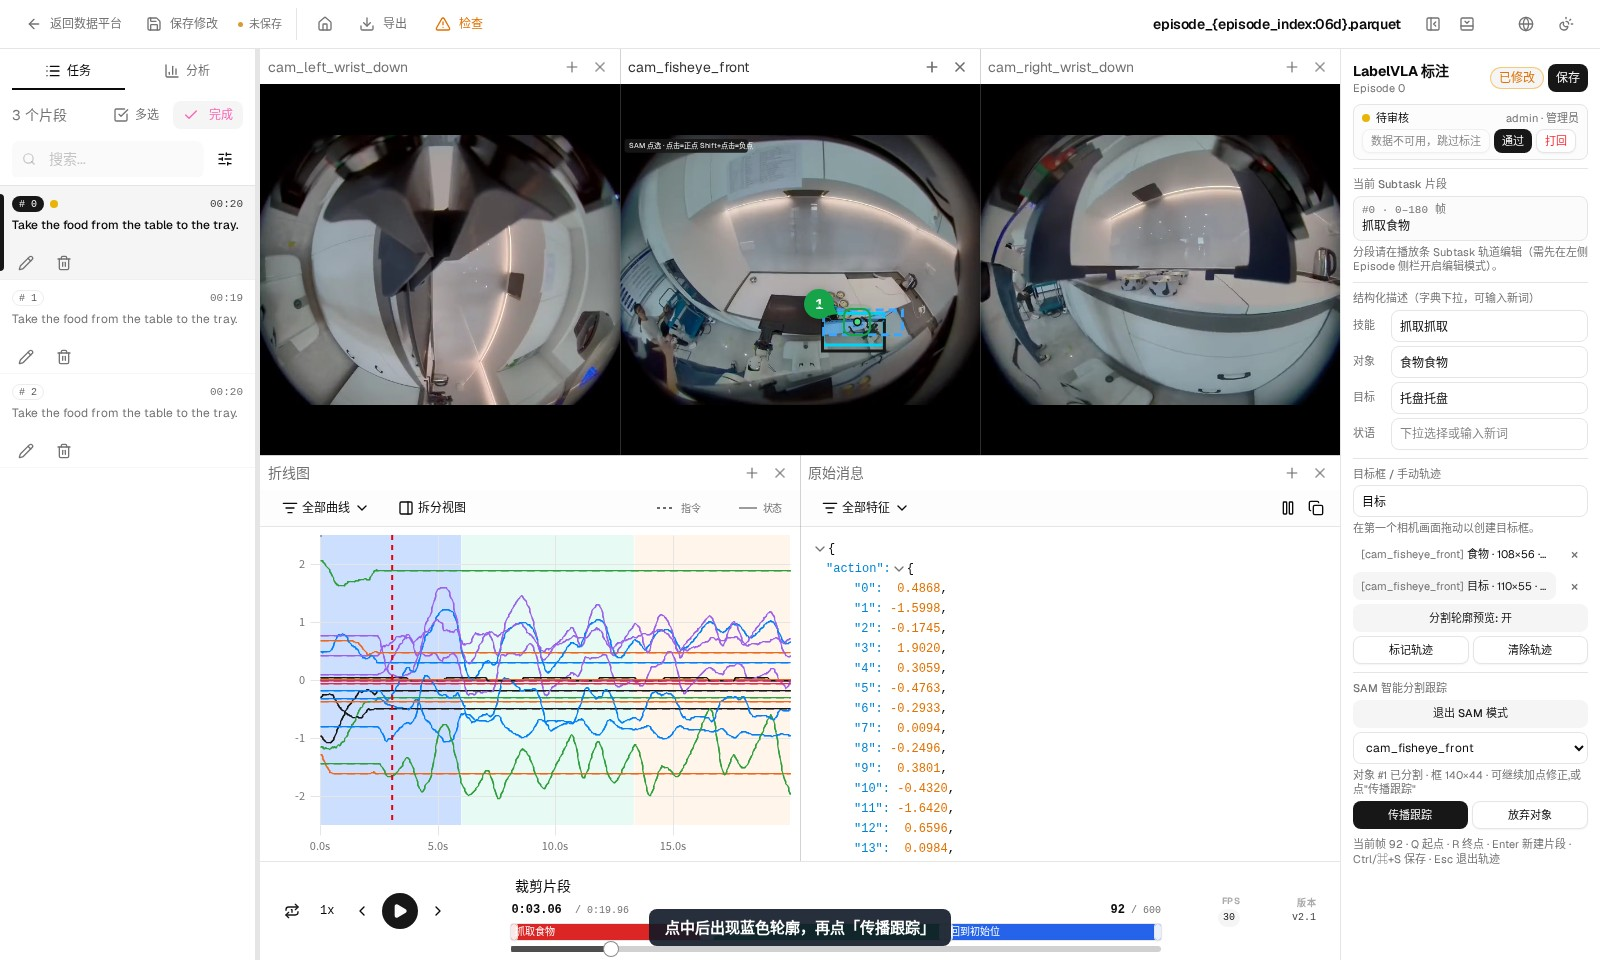
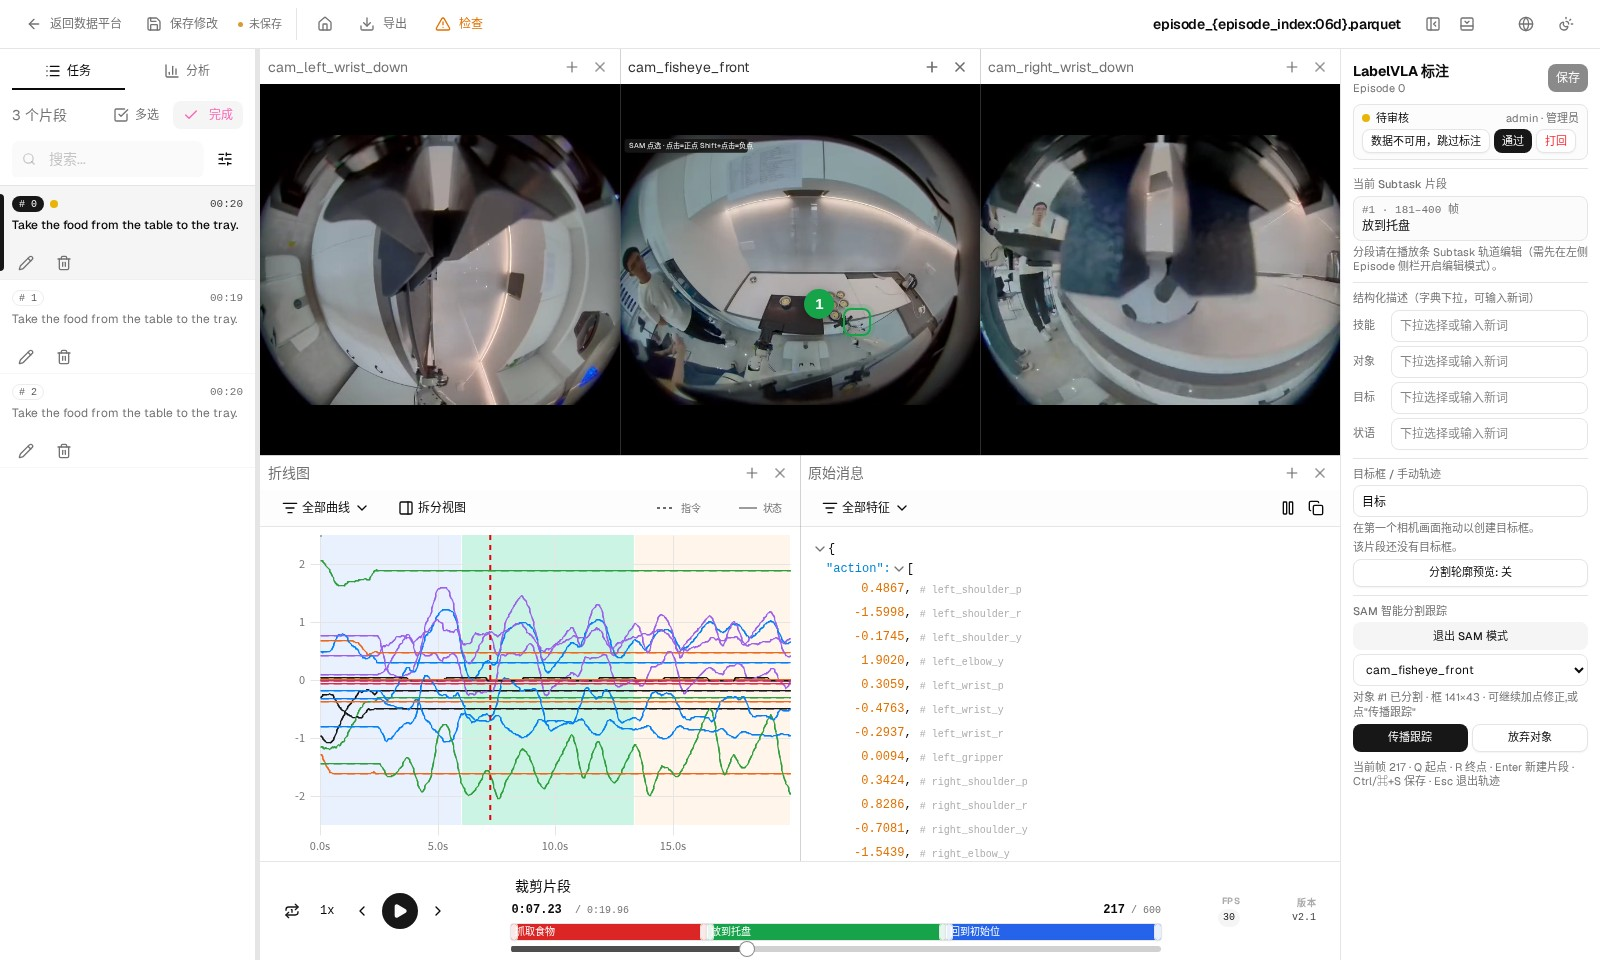
docs: 重截 SAM 点选截图，避免与已有分割轮廓叠在一起
截前先关闭「分割轮廓预览」并只点选一次，画面里只保留本次分割结果；
顺带补上单独重截该图的脚本 capture_sam_clean.mjs。

diff --git a/tutorial/README.md b/tutorial/README.md
@@ -82,6 +82,7 @@ TASK_ID=<任务ID> node shots.mjs
 TASK_ID=<任务ID> node sam_stills.mjs
 # 一步一图的带标注截图（输出到 images/steps/，需按章节顺序分 4 段执行）
 TASK_ID=<任务ID> node capture_steps.mjs && TASK_ID=<任务ID> node capture_steps2.mjs
+TASK_ID=<任务ID> node capture_sam_clean.mjs   # 单独重截 SAM 点选那张（会先关掉轮廓预览）
 # …… 任务流转到人工验收后再执行：
 TASK_ID=<任务ID> node capture_steps3.mjs && node capture_steps4.mjs
 
